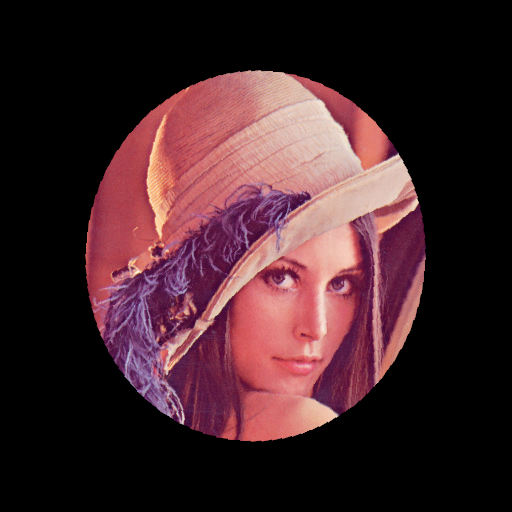
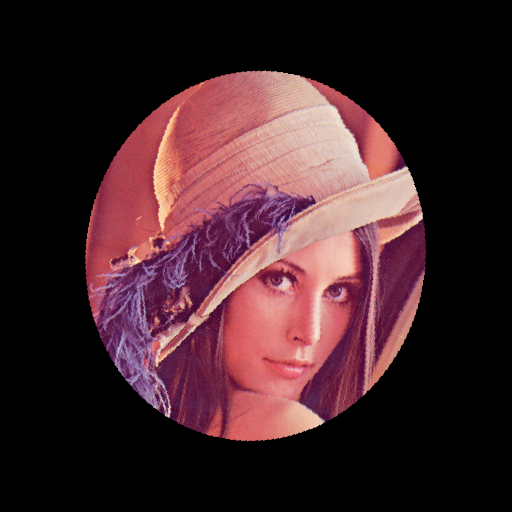
WIP

diff --git a/src/gauss_newton_detector/main.cpp b/src/gauss_newton_detector/main.cpp
@@ -8,9 +8,9 @@
 int main() {
     std::string image_path = "../../image/";
     // 入力画像を読み込む
-    cv::Mat colorImage = cv::imread(image_path + "Sample.png");
+    cv::Mat colorImage = cv::imread(image_path + "Lenna_Circle.png");
     // 相似変換済みの入力画像を読み込む
-    cv::Mat colorSimilarityImage = cv::imread(image_path + "Sample_Similarity.png");
+    cv::Mat colorSimilarityImage = cv::imread(image_path + "Lenna_Circle_Similarity.png");
     if (colorImage.empty() || colorSimilarityImage.empty()) {
         std::cerr << "入力画像を読み込めませんでした。" << std::endl;
         return -1;
@@ -23,7 +23,7 @@ int main() {
     cv::cvtColor(colorSimilarityImage, inputSimilarityImage, cv::COLOR_BGR2GRAY);
 
     // ガウシアンフィルタ
-    const int filtersize = 3;
+    const int filtersize = 15;
     cv::Mat gaussianInputImage;
     cv::GaussianBlur(inputImage, gaussianInputImage, cv::Size(filtersize, filtersize), cv::BORDER_REFLECT);
     cv::Mat gaussianInputSimilarityImage;
@@ -32,11 +32,7 @@ int main() {
 
     //初期値を適当に与える
     double estimate_theta = 0;
-    double estimate_scale = 1;
-
-    // //現在のLena画像の正解パラメータ
-    // double theta = M_PI;
-    // double scale = 1.0;
+    double estimate_scale = 0.9;
 
     while(1){
         //画像I'に対するx方向の平滑微分画像I'x を計算する
@@ -122,13 +118,13 @@ int main() {
             }
         }
 
-        // std::cerr << "J: " << J << std::endl;
+        std::cerr << "J: " << J << std::endl;
 
-        // std::cerr << "J_theta: " << J_theta << std::endl;
-        // std::cerr << "J_theta_theta: " << J_theta_theta << std::endl;
-        // std::cerr << "J_scale: " << J_scale << std::endl;
-        // std::cerr << "J_scale_scale: " << J_scale_scale << std::endl;
-        // std::cerr << "J_theta_scale: " << J_theta_scale << std::endl;
+        std::cerr << "J_theta: " << J_theta << std::endl;
+        std::cerr << "J_theta_theta: " << J_theta_theta << std::endl;
+        std::cerr << "J_scale: " << J_scale << std::endl;
+        std::cerr << "J_scale_scale: " << J_scale_scale << std::endl;
+        std::cerr << "J_theta_scale: " << J_theta_scale << std::endl;
 
         // ヤコビアンの計算
         Eigen::Matrix2d A;
@@ -141,7 +137,7 @@ int main() {
         // std::cerr << "X: \n" << X << std::endl;
 
         // 収束判定
-        if(std::abs(X(0)) < 1e-8 && std::abs(X(1)) < 1e-8 ){
+        if(std::abs(X(0)) < 1e-5 && std::abs(X(1)) < 1e-5 ){
             break;
         }
         else{

diff --git a/src/similarity_transformation/main.cpp b/src/similarity_transformation/main.cpp
@@ -57,7 +57,7 @@ void rotateImage(const cv::Mat& input, cv::Mat& output, double angle)
 int main(int argc, char* argv[])
 {
     //入力画像を読み込む
-    cv::Mat inputImage = cv::imread("../../image/Sample.png");
+    cv::Mat inputImage = cv::imread("../../image/Lenna_Circle.png");
     if (inputImage.empty()) {
         std::cerr << "入力画像を読み込めませんでした。" << std::endl;
         return -1;
@@ -110,7 +110,7 @@ int main(int argc, char* argv[])
     // cv::imshow("Resized and rotated image", resized_rotate_Image);
 
     // 画像を保存する
-    cv::imwrite("../../image/Sample_Similarity.png", outputImage);
+    cv::imwrite("../../image/Lenna_Circle_Similarity.png", outputImage);
 
     // キーが押されるまで待機
     cv::waitKey(0);
